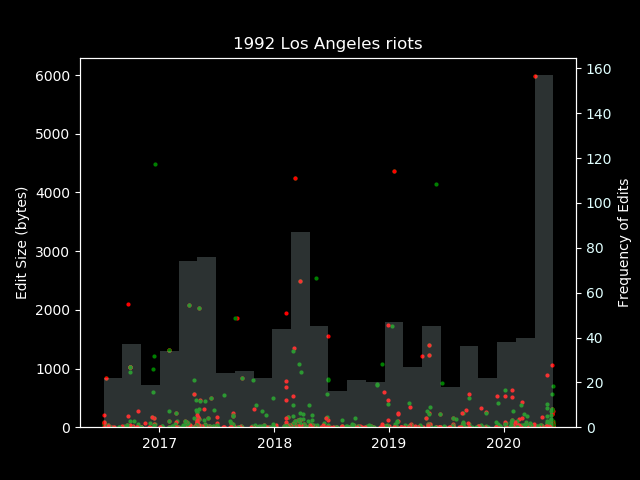
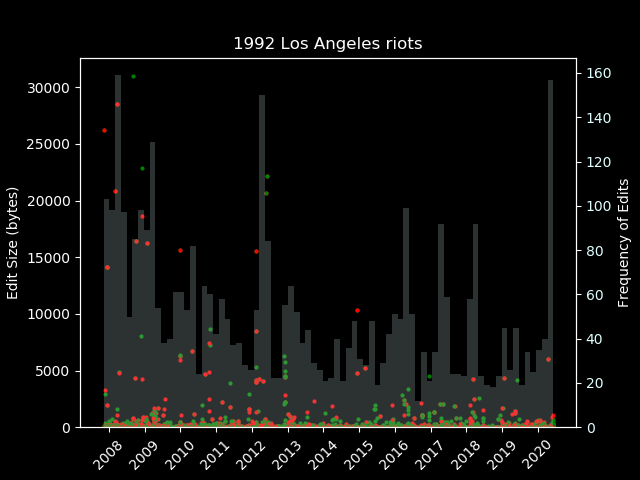
fig

diff --git a/wiki_api/classes.py b/wiki_api/classes.py
@@ -13,11 +13,12 @@ import time
 
 class Getter:
 
-    def __init__(self, page_title):
+    def __init__(self, page_title, request_size=1000):
 
         self.n_bins = 25
+        self.edits_per_bin = 50
         self.hist_color = 'lightcyan'
-        self.edit_size_request = 800
+        self.edit_size_request = request_size
 
         self.title = page_title
         self.formatted_title = self._format_title()
@@ -25,7 +26,9 @@ class Getter:
         self.response = self._simple_get()
         self.soup = BeautifulSoup(self.response, 'html.parser')
         self.raw_dates = []
+        self.raw_edit_strs = []
         self.datetimes = []
+        self.error_log = ErrorLog()
         self.dates = []
         self.bytes = []
         self._parse_soup()
@@ -36,7 +39,7 @@ class Getter:
         return self.title.replace(" ", "_")
 
     def _simple_get(self):
-        
+
         """
         Simple but robust url get. Copied from some stack overflow. Unfortunately, link lost.
         :param url:
@@ -66,7 +69,6 @@ class Getter:
 
     def _parse_soup(self):
 
-        count = 0
         for idx, child in enumerate(self.soup('li')):
 
             text = child.text
@@ -79,14 +81,17 @@ class Getter:
 
                 byte_str = split_out[2].split("bytes ")[-1]
                 byte_str = byte_str.replace(",", "")
-                bytes = int(byte_str)
+                try:
+                    bytes = int(byte_str)
 
-                self.raw_dates.append(datetime_str)
-                self.datetimes.append(dt)
-                self.dates.append(dt)
-                self.bytes.append(bytes)
-
-        print("count: ", count)
+                    self.raw_dates.append(datetime_str)
+                    self.raw_edit_strs.append(text)
+                    self.datetimes.append(dt)
+                    self.dates.append(dt)
+                    self.bytes.append(bytes)
+                except ValueError:
+                    self.error_log.add(idx, child, byte_str, datetime_str)
+        self.n_bins = int(len(self.bytes)/self.edits_per_bin)
 
     def _format_dates(self):
         self.dates = [datestr2num(rd) for rd in self.raw_dates]
@@ -114,9 +119,12 @@ class Getter:
         return ticks, labels
 
     def __repr__(self):
-        return "{0}\nmean bytes: {1}\nstd bytes: {2}".format(self.title,
-                                                             np.mean(self.bytes),
-                                                             np.std(self.bytes))
+        return "{0}\ncaptured edits: {1}\nfiltered edits: {2}\notsu: {3}\nnewest edit: {4}\noldest edit: {5}".format(self.title,
+                                                                                                                     len(self.bytes),
+                                                                                                                     self.error_log.size(),
+                                                                                                                     self.otsu_thresh,
+                                                                                                                     self.raw_edit_strs[0],
+                                                                                                                     self.raw_edit_strs[-1])
 
     def plot(self):
 
@@ -127,7 +135,7 @@ class Getter:
             ax0.scatter(d, abs(b), c=color_list[b > 0], s=4)
         ticks, labels = self._create_ticks()
         ax0.set_xticks(ticks)
-        ax0.set_xticklabels(labels)
+        ax0.set_xticklabels(labels, rotation=45)
         ax0.set_ylim(bottom=0)
         ax0.set_ylabel("Edit Size (bytes)")
         ax0.set_title(self.title)
@@ -143,3 +151,25 @@ class Getter:
         ax1.tick_params(labelcolor=self.hist_color)
         ax1.set_ylabel("Frequency of Edits")
         plt.show()
+
+class ErrorLog:
+
+    def __init__(self):
+        self.idxs = []
+        self.children = []
+        self.byte_strs = []
+        self.datetimes = []
+
+    def add(self, idx, child, byte_str, datetime):
+        self.idxs.append(idx)
+        self.children.append(child)
+        self.byte_strs.append(byte_str)
+        self.datetimes.append(datetime)
+
+    def size(self):
+        assert len(self.idxs)==len(self.children)==len(self.byte_strs)==len(self.datetimes), "ErrorLog lists are not the same length"
+        return len(self.idxs)
+
+class Edit:
+
+    def __init__(self):

diff --git a/wiki_api/main.py b/wiki_api/main.py
@@ -3,10 +3,17 @@ import sys
 
 if __name__ == "__main__":
 
-    if len(sys.argv) > 1:
-        page_title = sys.argv[1]
-    else:
-        page_title = "National Basketball Association"
+    page_title = "National Basketball Association"
 
-    out = classes.Getter(page_title)
+    if len(sys.argv) == 3:
+        page_title = sys.argv[1]
+        request_size = sys.argv[2]
+        out = classes.Getter(page_title, request_size=request_size)
+    elif len(sys.argv) == 2:
+        page_title = sys.argv[1]
+        out = classes.Getter(page_title)
+    else:
+        out = classes.Getter(page_title)
+
+    print(out)
     out.plot()
